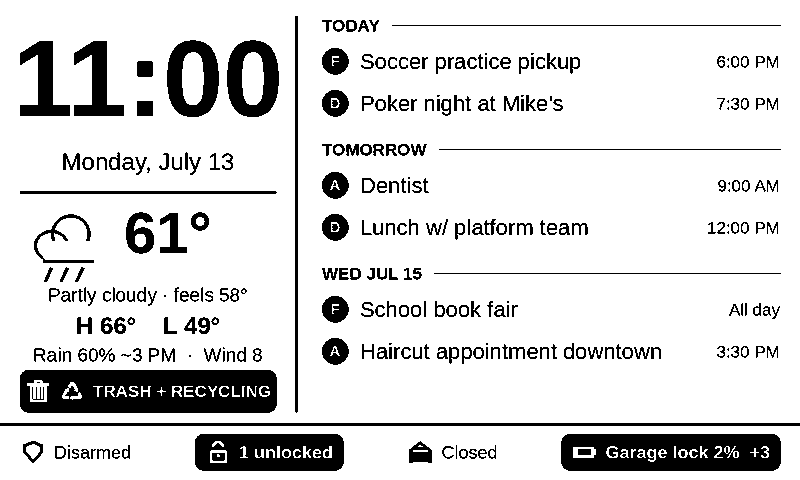
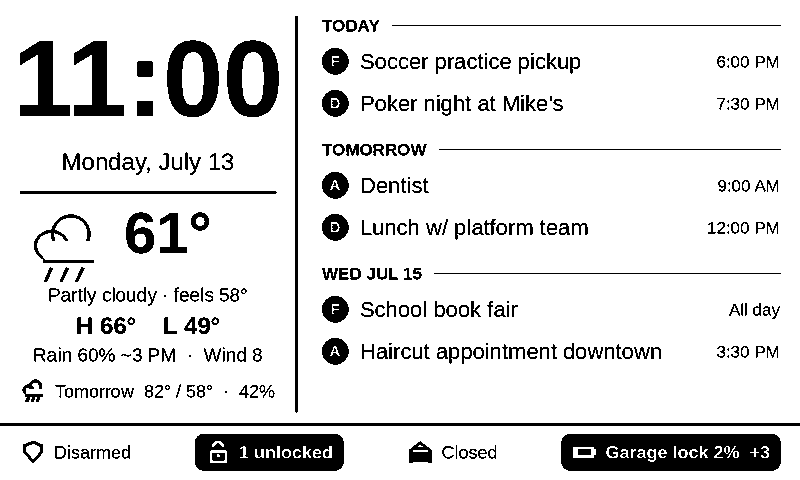
Tomorrow-forecast row fills the trash-badge slot on non-trash days
Condition icon + 'Tomorrow 82°/58° · 42%' centered where the badge
lives; badge still wins on trash nights. Weather glyphs added to mdi_md
(the row's icon font). Dual-network wifi (Tribbles-IoT + legacy) so the
IoT VLAN migration needs no USB flash. Calendar titles now translate
arrows/dashes/accents and strip emoji (HA-side).

Changed region(s): [[0.0, 0.75, 0.3438, 0.875]]

diff --git a/mockup/mockup.py b/mockup/mockup.py
@@ -55,7 +55,8 @@ DATA = {
             ],
         },
     ],
-    "trash": {"show": True, "recycling": True},
+    "trash": {"show": False, "recycling": True},
+    "tomorrow": {"high": 82, "low": 58, "rain": 42, "icon": "rain"},
     # droppable: removed (in list order) when alert pills need room
     "status": [
         {"icon": "shield", "text": "Disarmed", "alert": False},
@@ -311,6 +312,16 @@ def draw_left_column(c):
             ICONS[name](c, x, by0 + 8, iw, fill=WHITE)
             x += iw + 8
         c.text((x, (by0 + by1) / 2), label, f_badge, fill=WHITE, anchor="lm")
+    elif "tomorrow" in DATA:
+        tm = DATA["tomorrow"]
+        line = f"Tomorrow  {tm['high']}° / {tm['low']}°"
+        if tm.get("rain"):
+            line += f"  ·  {tm['rain']}%"
+        f_tm = font(18)
+        total = 34 + c.text_w(line, f_tm)
+        x = colc - total / 2
+        ICONS[tm["icon"]](c, x, 378, 26)
+        c.text((x + 34, 391), line, f_tm, anchor="lm")
 
 
 def draw_events(c):
